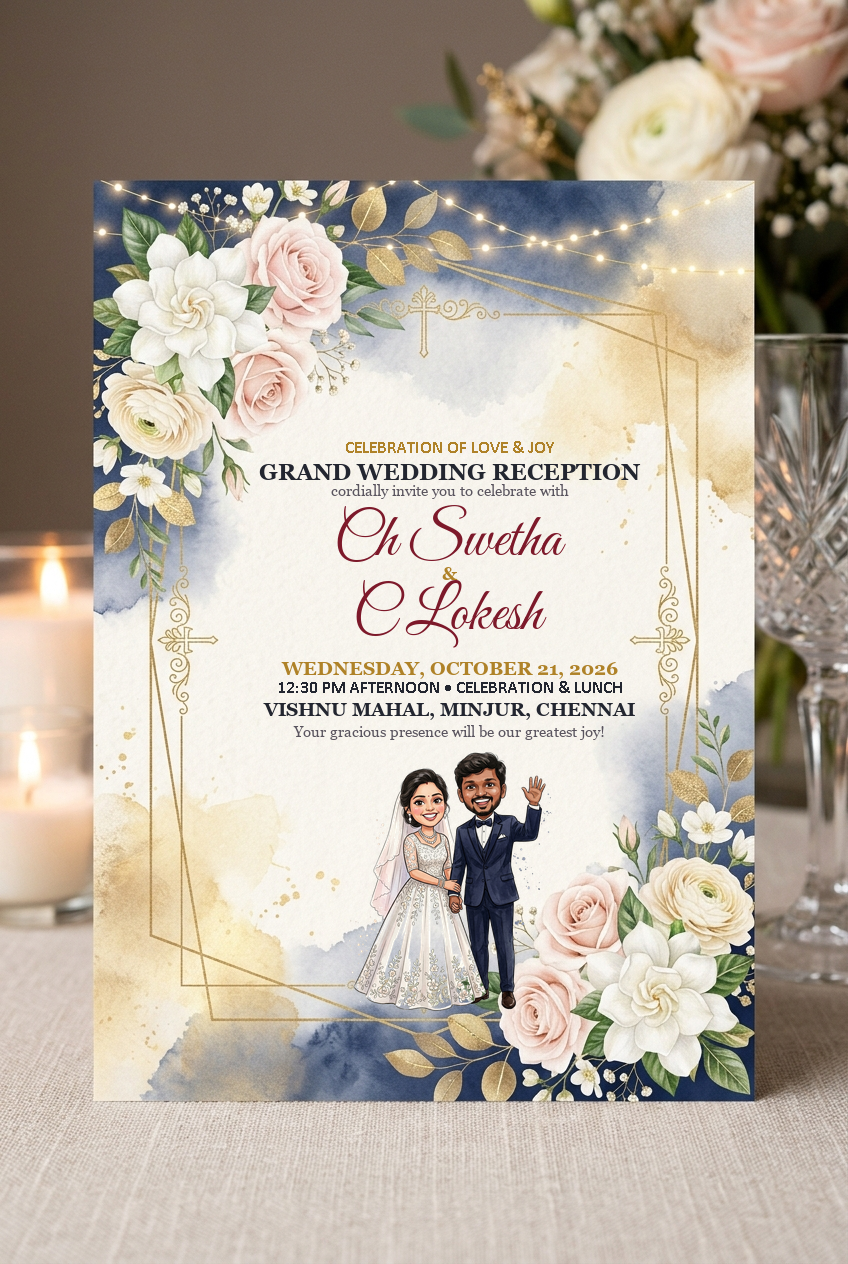
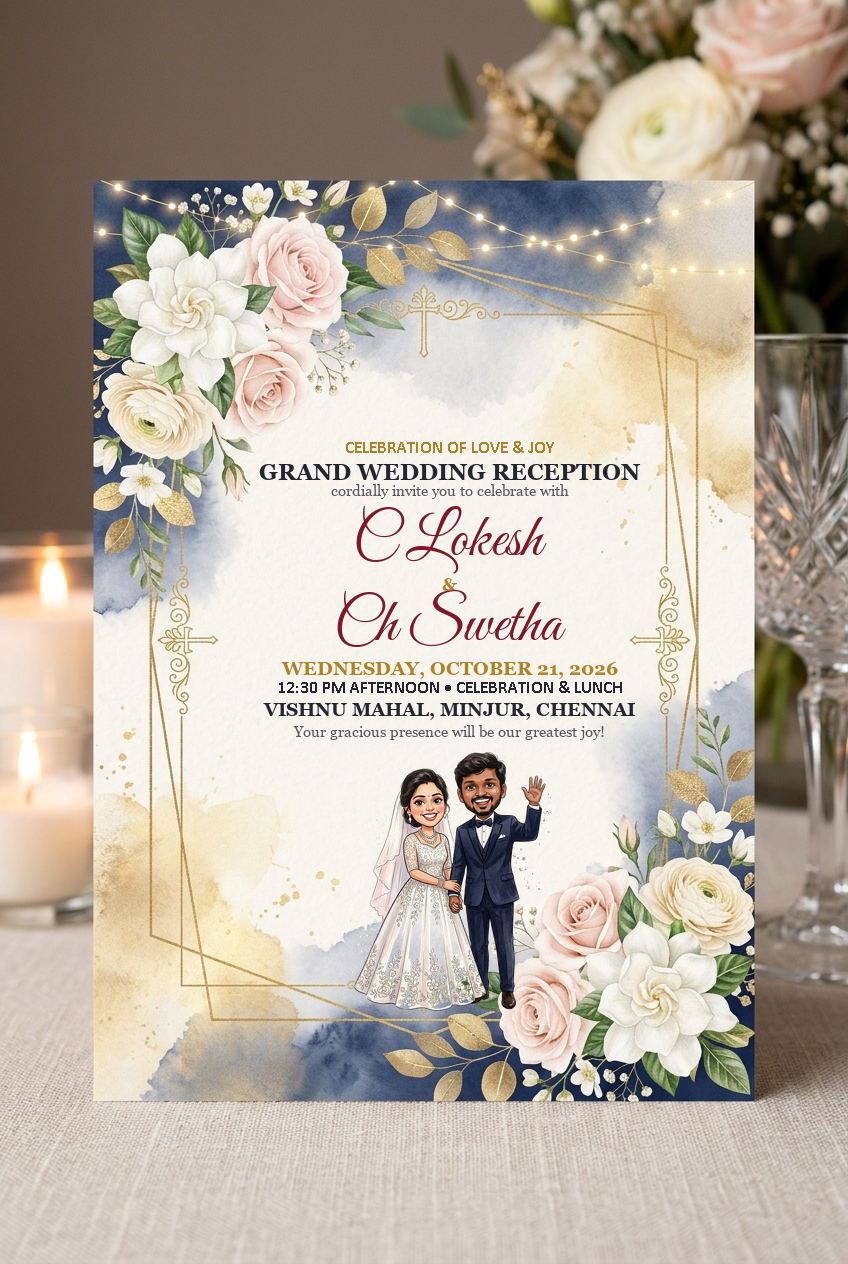
Display C Lokesh name first (C Lokesh & Ch Swetha)

Changed region(s): [[0.3986, 0.4011, 0.6745, 0.5245]]

diff --git a/index.html b/index.html
@@ -3,11 +3,11 @@
 <head>
   <meta charset="utf-8">
   <meta name="viewport" content="width=device-width, initial-scale=1">
-  <title>Ch Swetha & C Lokesh — Wedding Celebration 💍✝</title>
+  <title>C Lokesh & Ch Swetha — Wedding Celebration 💍✝</title>
   
   <!-- SEO & Social Sharing Meta Tags -->
-  <meta name="description" content="We cordially invite you to celebrate the Wedding & Reception of Ch Swetha & C Lokesh on October 21, 2026 at Vishnu Mahal, Minjur, Chennai.">
-  <meta property="og:title" content="Ch Swetha & C Lokesh — Wedding & Reception 💖✝">
+  <meta name="description" content="We cordially invite you to celebrate the Wedding & Reception of C Lokesh & Ch Swetha on October 21, 2026 at Vishnu Mahal, Minjur, Chennai.">
+  <meta property="og:title" content="C Lokesh & Ch Swetha — Wedding & Reception 💖✝">
   <meta property="og:description" content="Join us in celebrating our holy union! View event schedule, venue directions, and download the digital invitation.">
   <meta property="og:image" content="assets/wedding_poster.png">
   <meta property="og:type" content="website">
@@ -56,7 +56,7 @@
       
       <p class="cover-verse">“Therefore what God has joined together, let no one separate.”<br><span>— Mark 10:9 —</span></p>
 
-      <div class="cover-initials">S & L</div>
+      <div class="cover-initials">L & S</div>
       
       <div class="divider-gold">
         <svg xmlns="http://www.w3.org/2000/svg" fill="none" viewBox="0 0 24 24" stroke-width="1.8" stroke="currentColor">
@@ -65,7 +65,7 @@
       </div>
       
       <p class="cover-subtitle">You are cordially invited to celebrate the Wedding & Reception of</p>
-      <h2 class="cover-names">Ch Swetha <span>&</span> C Lokesh</h2>
+      <h2 class="cover-names">C Lokesh <span>&</span> Ch Swetha</h2>
       <p class="cover-date-venue">October 21, 2026 • Vishnu Mahal, Minjur, Chennai</p>
       
       <button type="button" class="btn-gold" id="open-inv-btn" aria-label="Open Wedding Invitation">
@@ -81,7 +81,7 @@
   <header>
     <div class="header-logo">
       <span class="cross-mini">✝</span>
-      <span class="names-logo">Swetha & Lokesh</span>
+      <span class="names-logo">Lokesh & Swetha</span>
     </div>
     
     <div class="header-actions">
@@ -116,9 +116,9 @@
 
       <p class="hero-subtitle">Together with their Families</p>
       
-      <h1 class="hero-title">Ch Swetha</h1>
-      <div class="hero-ampersand">&</div>
       <h1 class="hero-title">C Lokesh</h1>
+      <div class="hero-ampersand">&</div>
+      <h1 class="hero-title">Ch Swetha</h1>
       
       <p class="hero-scripture">“And over all these virtues put on love, which binds them all together in perfect unity.”<br><span>— Colossians 3:14 —</span></p>
       
@@ -161,7 +161,7 @@
         <div class="filigree-corner corner-bl"></div>
         <div class="filigree-corner corner-br"></div>
         
-        <h2 class="section-title">The Bride & Groom</h2>
+        <h2 class="section-title">The Groom & Bride</h2>
         <div class="divider-gold">
           <svg xmlns="http://www.w3.org/2000/svg" fill="none" viewBox="0 0 24 24" stroke-width="2" stroke="currentColor">
             <path stroke-linecap="round" stroke-linejoin="round" d="M21 8.25c0-2.485-2.099-4.5-4.688-4.5-1.935 0-3.597 1.126-4.312 2.733-.715-1.607-2.377-2.733-4.313-2.733C5.1 3.75 3 5.765 3 8.25c0 7.22 9 12 9 12s9-4.78 9-12Z" />
@@ -170,17 +170,17 @@
         
         <div class="couple-portrait-container">
           <div class="couple-halo"></div>
-          <img src="assets/cartoon_couple.png" alt="Ch Swetha & C Lokesh Caricature Wedding Illustration" class="couple-caricature-img">
+          <img src="assets/cartoon_couple.png" alt="C Lokesh & Ch Swetha Caricature Wedding Illustration" class="couple-caricature-img">
         </div>
         
         <div class="couple-names-wrap">
-          <h3 class="couple-name">Ch Swetha <span>&</span> C Lokesh</h3>
+          <h3 class="couple-name">C Lokesh <span>&</span> Ch Swetha</h3>
           <p class="couple-vow">“Two lives, two hearts, joined together in friendship, united forever in faith and love.”</p>
         </div>
 
         <!-- Quick 1-click Calendar button (No name/phone/count needed!) -->
         <div class="save-date-actions">
-          <a href="https://calendar.google.com/calendar/render?action=TEMPLATE&text=Wedding+%26+Reception+of+Ch+Swetha+%26+C+Lokesh&dates=20261021T050000Z/20261021T103000Z&details=Marriage+starts+at+10:30+AM+morning+%26+Reception+starts+at+12:30+PM+afternoon.+Location:+Vishnu+Mahal,+Minjur,+Chennai.&location=Vishnu+Mahal,+Minjur,+Chennai" target="_blank" rel="noopener noreferrer" class="btn-gold" id="btn-google-cal">
+          <a href="https://calendar.google.com/calendar/render?action=TEMPLATE&text=Wedding+%26+Reception+of+C+Lokesh+%26+Ch+Swetha&dates=20261021T050000Z/20261021T103000Z&details=Marriage+starts+at+10:30+AM+morning+%26+Reception+starts+at+12:30+PM+afternoon.+Location:+Vishnu+Mahal,+Minjur,+Chennai.&location=Vishnu+Mahal,+Minjur,+Chennai" target="_blank" rel="noopener noreferrer" class="btn-gold" id="btn-google-cal">
             <svg xmlns="http://www.w3.org/2000/svg" fill="none" viewBox="0 0 24 24" stroke-width="2" stroke="currentColor" style="width: 18px; height: 18px;">
               <path stroke-linecap="round" stroke-linejoin="round" d="M12 4.5v15m7.5-7.5h-15" />
             </svg>
@@ -322,7 +322,7 @@
             <path stroke-linecap="round" stroke-linejoin="round" d="M21 8.25c0-2.485-2.099-4.5-4.688-4.5-1.935 0-3.597 1.126-4.312 2.733-.715-1.607-2.377-2.733-4.313-2.733C5.1 3.75 3 5.765 3 8.25c0 7.22 9 12 9 12s9-4.78 9-12Z" />
           </svg>
         </div>
-        <p class="section-subtitle">Shower your love, heartfelt prayers, and warm wishes upon Swetha & Lokesh!</p>
+        <p class="section-subtitle">Shower your love, heartfelt prayers, and warm wishes upon Lokesh & Swetha!</p>
 
         <!-- Interactive Love Tap Counter -->
         <div class="love-counter-bar">
@@ -336,7 +336,7 @@
         <!-- Preset quick-tap blessings -->
         <div class="quick-blessings-row">
           <button type="button" class="chip-blessing" data-wish="✝ May Almighty God shower His richest blessings upon your marriage!">✝ God Bless</button>
-          <button type="button" class="chip-blessing" data-wish="💐 Wishing Swetha & Lokesh a lifetime of unending joy and harmony!">💐 Lifetime Joy</button>
+          <button type="button" class="chip-blessing" data-wish="💐 Wishing Lokesh & Swetha a lifetime of unending joy and harmony!">💐 Lifetime Joy</button>
           <button type="button" class="chip-blessing" data-wish="✨ Happy Married Life! May love always light your path!">✨ Happy Married Life</button>
           <button type="button" class="chip-blessing" data-wish="💖 Congratulations to the most beautiful couple!">💖 Heartiest Congrats</button>
         </div>
@@ -373,7 +373,7 @@
       </div>
       
       <p class="footer-venue-summary">October 21, 2026 • Vishnu Mahal, Minjur, Chennai</p>
-      <p class="footer-credits">Made with ❤ for Ch Swetha & C Lokesh</p>
+      <p class="footer-credits">Made with ❤ for C Lokesh & Ch Swetha</p>
     </footer>
 
   </main>
@@ -384,7 +384,7 @@
       <p id="bubble-text">Hi there! Welcome to our wedding invitation! 👋</p>
     </div>
     <div class="sticker-image-wrapper">
-      <img src="assets/cartoon_couple.png" alt="Swetha & Lokesh Cartoon Saying Hi" id="cartoon-couple-img">
+      <img src="assets/cartoon_couple.png" alt="Lokesh & Swetha Cartoon Saying Hi" id="cartoon-couple-img">
     </div>
   </div>
 

diff --git a/script.js b/script.js
@@ -1,5 +1,5 @@
 // ==========================================================================
-// Interactive Wedding Invitation: Ch Swetha & C Lokesh
+// Interactive Wedding Invitation: C Lokesh & Ch Swetha
 // Date: October 21, 2026 | Vishnu Mahal, Minjur, Chennai
 // ==========================================================================
 
@@ -11,9 +11,9 @@ let loveCount = 128;
 
 // Initial warm blessing messages
 const defaultBlessings = [
-  { text: "May God unite your hearts with endless love and divine grace! Hearty congratulations Swetha & Lokesh! ✝❤", time: "Just now" },
+  { text: "May God unite your hearts with endless love and divine grace! Hearty congratulations Lokesh & Swetha! ✝❤", time: "Just now" },
   { text: "Wishing you both a joyous married life filled with laughter, peace, and abundance! 💐✨", time: "2 hours ago" },
-  { text: "Congratulations dear Swetha and Lokesh! Can't wait to celebrate at Vishnu Mahal, Minjur! 🎉🥂", time: "Yesterday" }
+  { text: "Congratulations dear Lokesh and Swetha! Can't wait to celebrate at Vishnu Mahal, Minjur! 🎉🥂", time: "Yesterday" }
 ];
 
 // Interactive Caricature dialogues
@@ -265,15 +265,15 @@ function downloadICSEvent() {
   const icsContent = [
     "BEGIN:VCALENDAR",
     "VERSION:2.0",
-    "PRODID:-//Swetha & Lokesh Wedding//EN",
+    "PRODID:-//Lokesh & Swetha Wedding//EN",
     "CALSCALE:GREGORIAN",
     "METHOD:PUBLISH",
     "BEGIN:VEVENT",
-    "UID:swetha-lokesh-wedding-20261021@wedding.com",
+    "UID:lokesh-swetha-wedding-20261021@wedding.com",
     "DTSTAMP:20261009T000000Z",
     "DTSTART:20261021T050000Z", // 10:30 AM IST
     "DTEND:20261021T103000Z",   // 4:00 PM IST
-    "SUMMARY:Wedding & Reception of Ch Swetha & C Lokesh 💍✝",
+    "SUMMARY:Wedding & Reception of C Lokesh & Ch Swetha 💍✝",
     "DESCRIPTION:Marriage Ceremony starts at 10:30 AM morning and Wedding Reception starts at 12:30 PM afternoon at Vishnu Mahal, Minjur, Chennai. Your prayers and presence are cherished!",
     "LOCATION:Vishnu Mahal, Minjur, Chennai, Tamil Nadu",
     "STATUS:CONFIRMED",
@@ -284,7 +284,7 @@ function downloadICSEvent() {
   const blob = new Blob([icsContent], { type: "text/calendar;charset=utf-8" });
   const link = document.createElement("a");
   link.href = window.URL.createObjectURL(blob);
-  link.setAttribute("download", "Swetha_and_Lokesh_Wedding.ics");
+  link.setAttribute("download", "Lokesh_and_Swetha_Wedding.ics");
   document.body.appendChild(link);
   link.click();
   document.body.removeChild(link);
@@ -325,7 +325,7 @@ function loadBlessings() {
   const wall = document.getElementById("blessings-wall");
   if (!wall) return;
 
-  const stored = JSON.parse(localStorage.getItem("swetha_lokesh_blessings") || "null");
+  const stored = JSON.parse(localStorage.getItem("lokesh_swetha_blessings") || localStorage.getItem("swetha_lokesh_blessings") || "null");
   const blessings = stored && stored.length > 0 ? stored : defaultBlessings;
 
   wall.innerHTML = "";
@@ -342,9 +342,9 @@ function submitBlessing(text) {
     time: "Just now"
   };
 
-  const stored = JSON.parse(localStorage.getItem("swetha_lokesh_blessings") || "[]");
+  const stored = JSON.parse(localStorage.getItem("lokesh_swetha_blessings") || localStorage.getItem("swetha_lokesh_blessings") || "[]");
   stored.unshift(newBlessing);
-  localStorage.setItem("swetha_lokesh_blessings", JSON.stringify(stored));
+  localStorage.setItem("lokesh_swetha_blessings", JSON.stringify(stored));
 
   appendBlessingToWall(newBlessing.text, newBlessing.time, true);
 }
